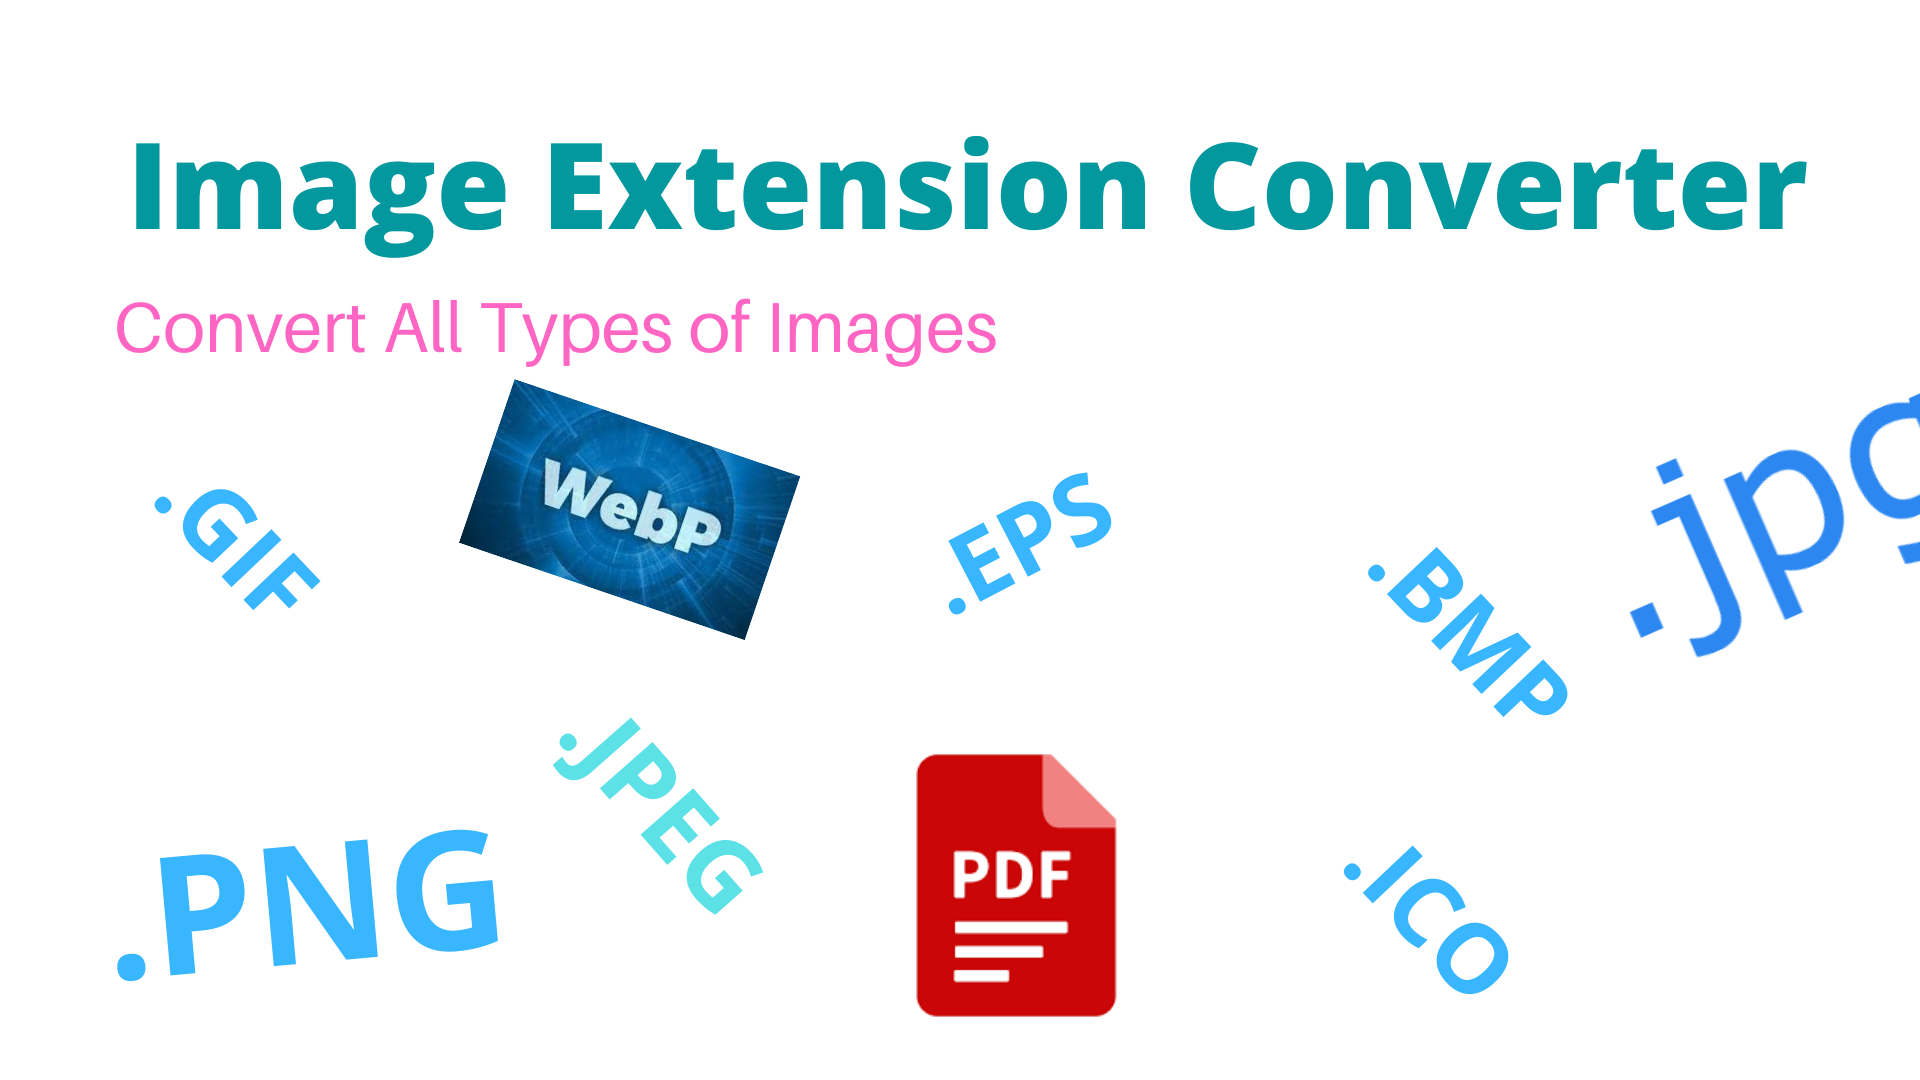
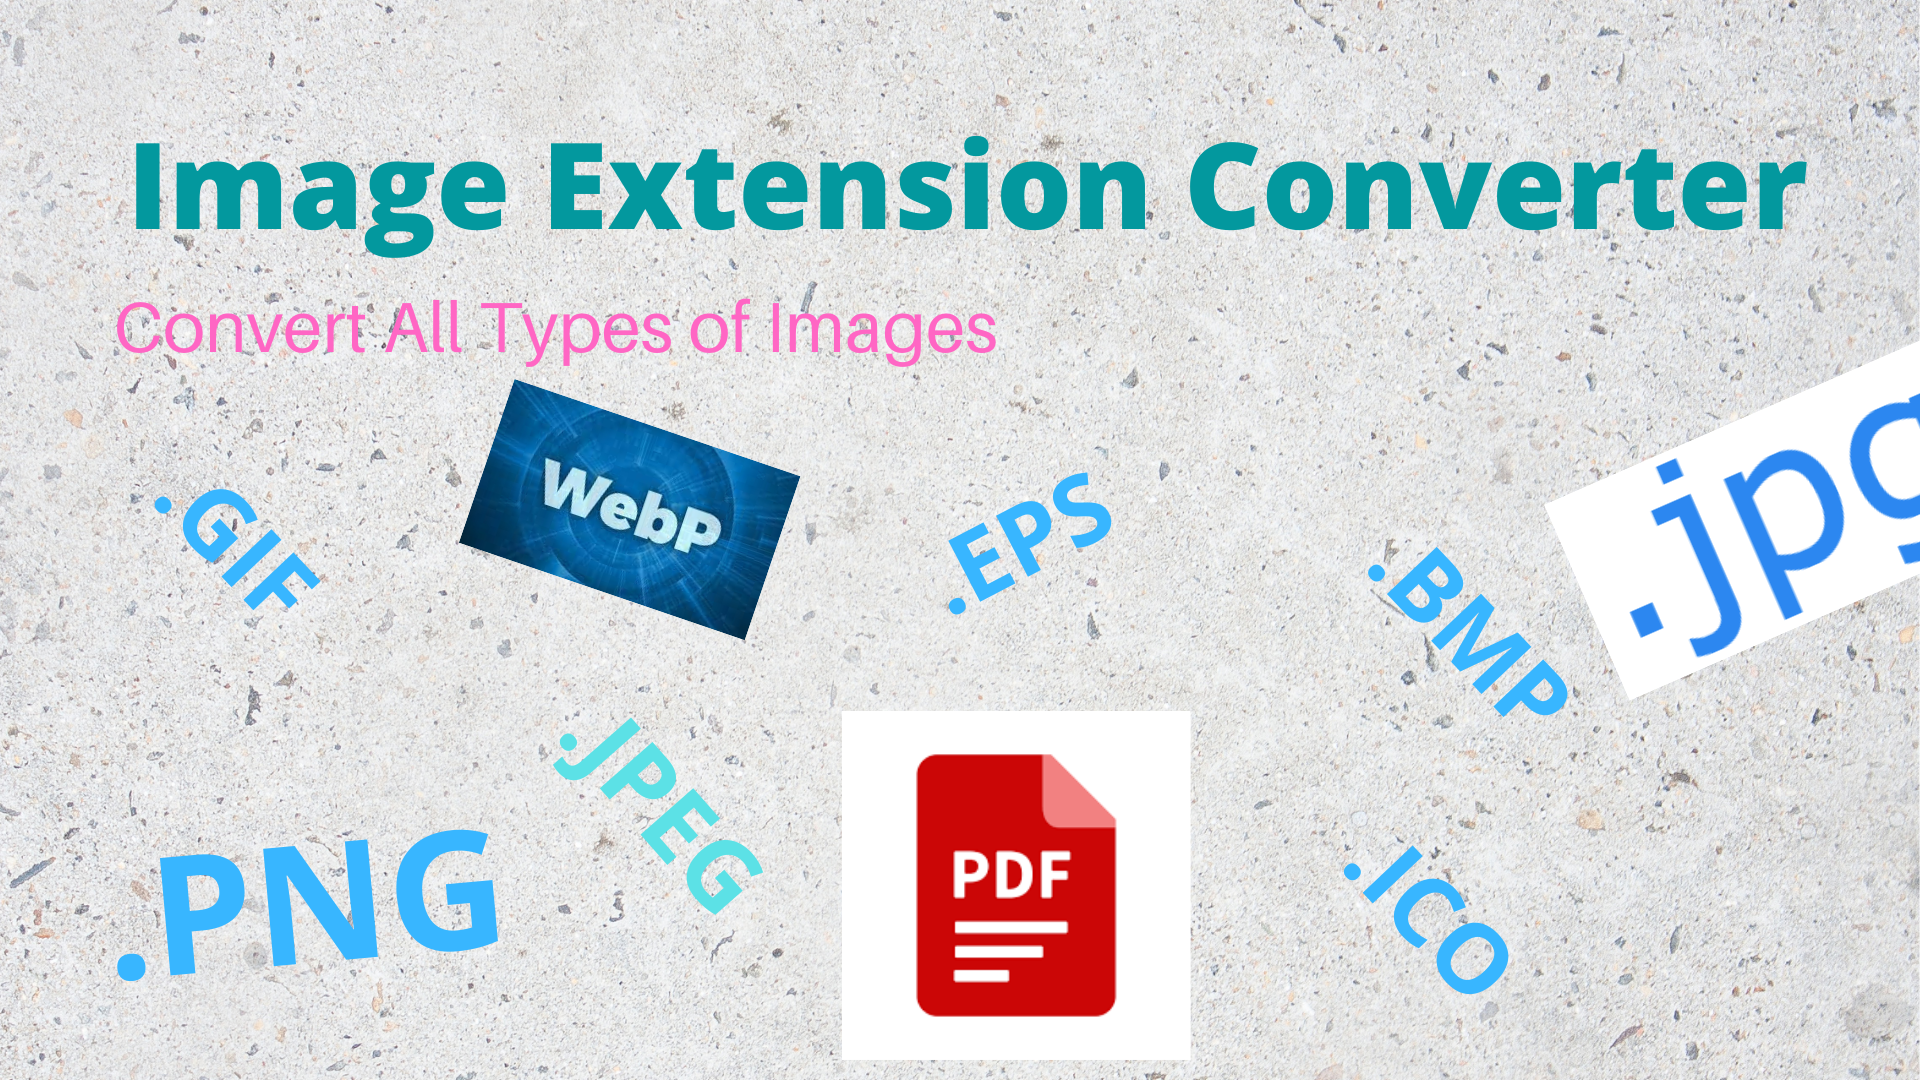
commit

diff --git a/static/index.css b/static/index.css
@@ -38,10 +38,8 @@
     justify-content: center;
 }
 .home-container .image-container .img{
-    width: 60%;
-    border: 1px solid rgb(26, 24, 24);
-    border-radius: 10px;
-    box-shadow: 10px 10px 9px lightblue;
+    width: 98.7vw;
+    /* position: fixed; */
 }
 
 .btn{
@@ -73,12 +71,7 @@
     .home-container .home-desc p{
         text-align: center;
     }
-    .home-container .image-container .img{
-        width: 100%;
-        border: 1px solid rgb(26, 24, 24);
-        border-radius: 10px;
-        box-shadow: 10px 10px 9px lightblue;
-    }
+   
   }
 
   
